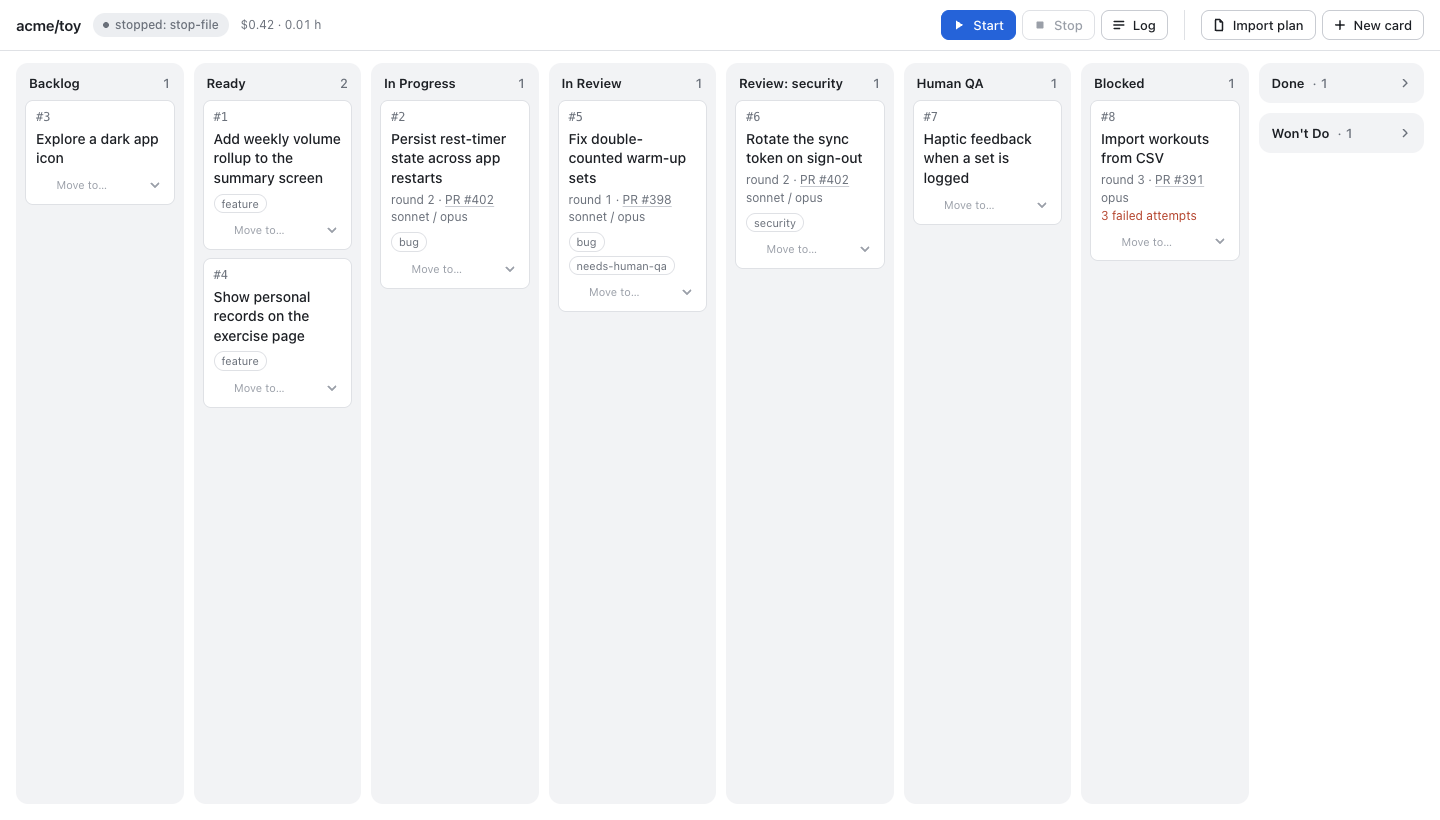
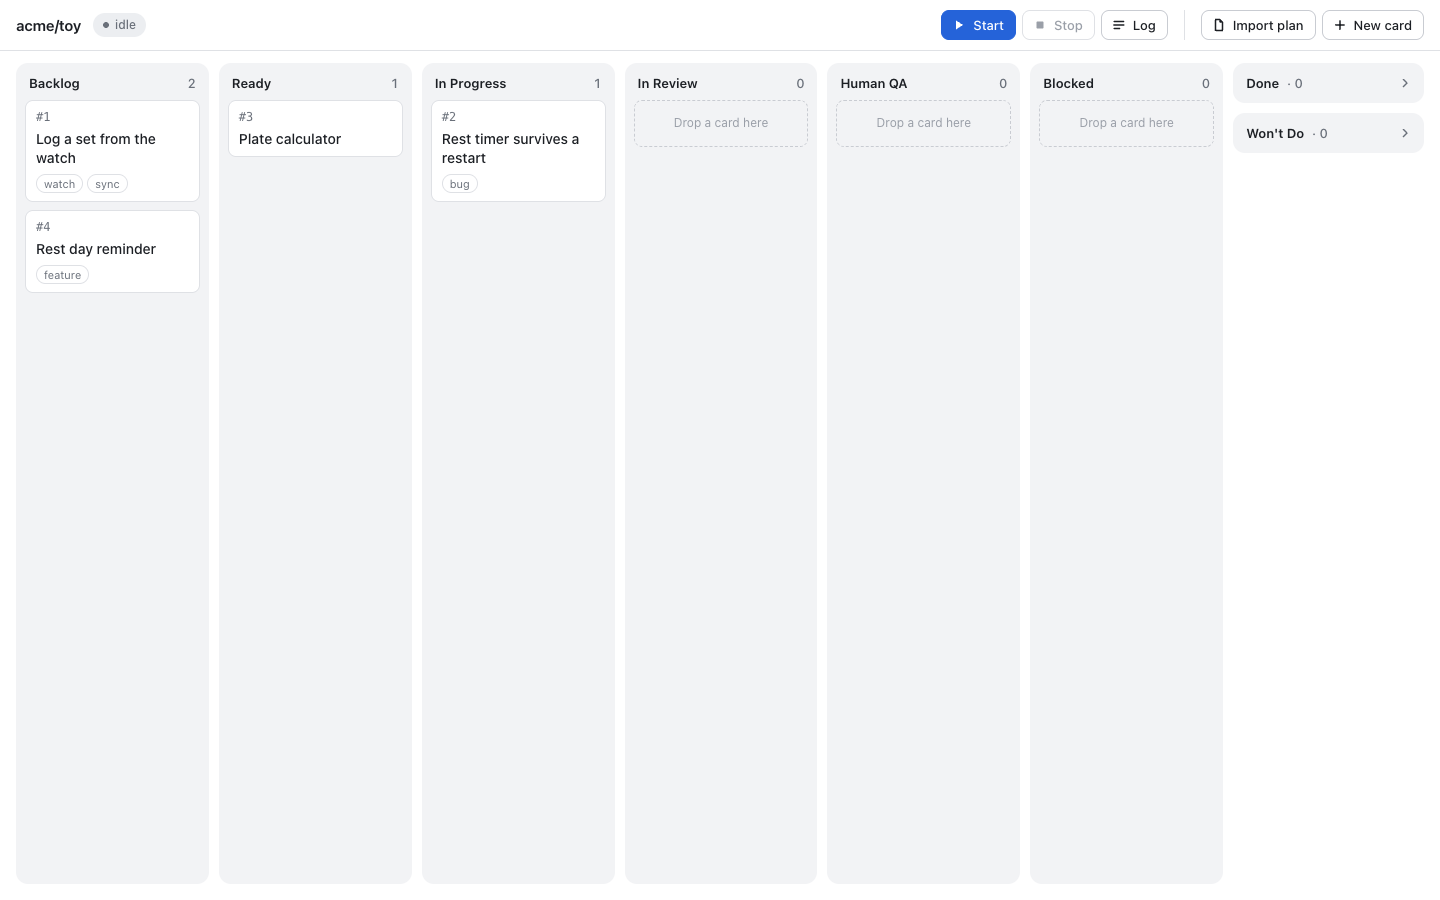
feat(web): drop the per-card move menu; drag and drop and the drawer remain
Removes the Move to select, its CSS and the select-hold logic that kept a column from re-rendering under an open select. Cards stay focusable; Enter opens the drawer, whose state select is the keyboard path.

diff --git a/plugins/fleet-board/scripts/board-web/static/board.js b/plugins/fleet-board/scripts/board-web/static/board.js
@@ -18,7 +18,6 @@ const S = {
   dragging: null,     // number of the card being dragged
   pendingBoard: null, // a board that arrived mid-drag, rendered on dragend
   pendingMove: null,  // number of the card whose move is in flight
-  selectOpen: null,   // {el, at}: a Move to select the user is choosing in
   logOpen: false,
   busy: false,        // a start/stop request is in flight
   offline: false,
@@ -362,9 +361,6 @@ function renderColumn(state, cards, repo, force) {
   col.count.textContent = String(cards.length);
   const sig = JSON.stringify([repo, cards]);
   if (!force && sig === col.sig) return;
-  // A native select that is open would close under a re-render: skip this
-  // poll. col.sig stays old, so the column re-renders once the select closes.
-  if (!force && selectHeld(col.list)) return;
   const top = col.list.scrollTop;
   const frag = document.createDocumentFragment();
   if (!cards.length) frag.appendChild(el("li", "col-empty", "Drop a card here"));
@@ -381,42 +377,14 @@ function focusedCard() {
   return { n: card.dataset.n };
 }
 
-// restoreFocus puts focus back on the card itself, never its select, so a
-// focused-but-closed select cannot hold a column's re-render.
+// restoreFocus: a re-render replaces the focused card's element; put focus
+// back on the card with the same number so keyboard users keep their place.
 function restoreFocus(focus) {
   if (!focus) return;
   const active = document.activeElement;
   if (active && active !== document.body && document.contains(active)) return;
   const card = document.querySelector('.card[data-n="' + focus.n + '"]');
   if (card) card.focus({ preventScroll: true });
-}
-
-// The select the user is choosing in: set from pointerdown or an opening key
-// until change, blur or Escape, and for at most SELECT_HOLD_MS (a native popup
-// closed some other way cannot hold a column stale for longer).
-const SELECT_HOLD_MS = 10000;
-
-function holdSelect(sel) {
-  S.selectOpen = { el: sel, at: Date.now() };
-}
-
-function selectHeld(list) {
-  const h = S.selectOpen;
-  if (!h) return false;
-  if (Date.now() - h.at > SELECT_HOLD_MS || !document.contains(h.el)) {
-    S.selectOpen = null;
-    return false;
-  }
-  return list.contains(h.el);
-}
-
-// releaseSelect: ends the hold and re-renders any column a poll skipped.
-function releaseSelect(sel) {
-  if (!S.selectOpen || S.selectOpen.el !== sel) return;
-  S.selectOpen = null;
-  setTimeout(function () {
-    if (S.board && S.pendingMove === null) renderBoard(S.board);
-  }, 0);
 }
 
 // renderCard(card, repo) -> <li>: DOM calls only.
@@ -479,33 +447,6 @@ function renderCard(c, repo) {
     li.appendChild(ul);
   }
 
-  const foot = el("div", "card-foot");
-  const sel = el("select", "move");
-  sel.setAttribute("aria-label", "Move #" + n + " to");
-  const first = el("option", null, "Move to…");
-  first.value = "";
-  first.selected = true;
-  first.disabled = true;
-  sel.appendChild(first);
-  for (const s of (S.board && S.board.states) || []) {
-    const opt = el("option", null, s.name);
-    opt.value = s.key;
-    if (s.key === c.state) opt.disabled = true;
-    sel.appendChild(opt);
-  }
-  sel.addEventListener("pointerdown", function () { holdSelect(sel); });
-  sel.addEventListener("keydown", function (e) {
-    if (e.key === "Escape" || e.key === "Tab") releaseSelect(sel);
-    else if (e.key === " " || e.key === "Enter" || e.key === "ArrowDown" || e.key === "ArrowUp") holdSelect(sel);
-  });
-  sel.addEventListener("blur", function () { releaseSelect(sel); });
-  sel.addEventListener("change", function () {
-    releaseSelect(sel);
-    if (sel.value) moveCard(n, sel.value);
-  });
-  foot.appendChild(sel);
-  li.appendChild(foot);
-
   li.addEventListener("keydown", function (e) {
     if (e.key === "Enter" && e.target === li) {
       e.preventDefault();
@@ -513,7 +454,7 @@ function renderCard(c, repo) {
     }
   });
   li.addEventListener("click", function (e) {
-    if (e.target.closest("a, select, button")) return;
+    if (e.target.closest("a")) return;
     openCard(n);
   });
   li.addEventListener("dragstart", function (e) {

diff --git a/plugins/fleet-board/scripts/board-web/static/board.css b/plugins/fleet-board/scripts/board-web/static/board.css
@@ -300,19 +300,6 @@ button, select, input, textarea { font: inherit; color: inherit; }
   overflow-wrap: anywhere;
 }
 
-.card-foot { margin-top: 6px; display: flex; justify-content: flex-end; }
-.move {
-  max-width: 100%;
-  height: 22px;
-  padding: 0 4px;
-  border: 1px solid transparent;
-  border-radius: 6px;
-  background: transparent;
-  color: var(--faint);
-  font-size: 11px;
-  cursor: pointer;
-}
-.card:hover .move, .card:focus-within .move { border-color: var(--line); color: var(--muted); }
 
 /* --- card drawer --------------------------------------------------------- */
 
